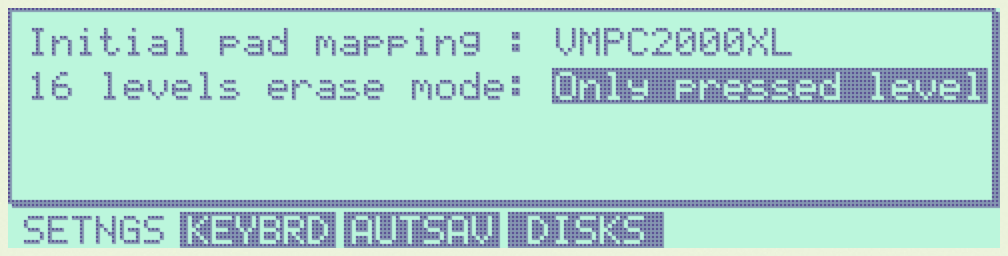
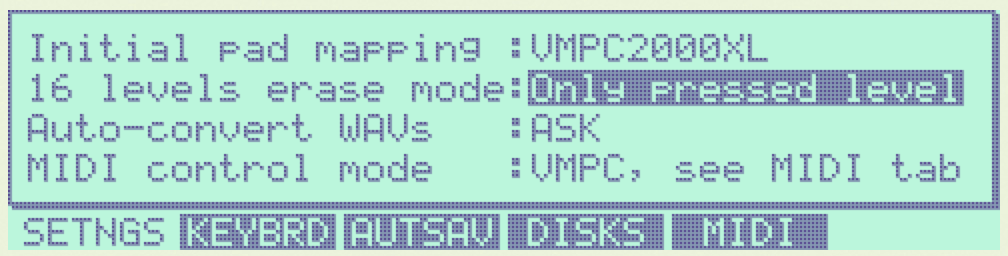
Fix LCD contrast in screenshots and update auto-persist

diff --git a/vmpc_specific_settings.rst b/vmpc_specific_settings.rst
@@ -91,12 +91,11 @@ Auto-convert WAVs
 +++++++++++++++++
 VMPC2000XL has the ability to convert PCM WAV files that are unsupported on the original MPC2000XL to a supported format. Eligible are 24- and 32-bit WAV files, as well as WAVs with a sampling rate over 44100Hz.
 
-By default VMPC2000XL will prompt you with a dialog when you are trying to load an unsupported file that is eligible for conversion. To always skip this prompt, set :code:`Auto-convert WAVs` to :code:`YES`.
+By default VMPC2000XL will always try to convert WAV files to a supported format. If you prefer to get a dialog instead, so you are aware of such conversions, set :code:`Auto-convert WAVs` to :code:`ASK`.
 
 .. image:: images/vmpc_specific_settings/auto_convert_wavs.png
    :width: 400 px
    :align: center
-
 
 .. _midi_control_mode:
 
@@ -108,9 +107,7 @@ VMPC2000XL supports 2 different modes in terms of MIDI controllability:
 
 2. :code:`ORIGINAL`. VMPC2000XL will respond like the original would. This means that incoming MIDI note events will be routed to pads according to how you've programmed your pad-to-MIDI note associations in the PROGRAM ASSIGN screen (Shift + 6, F1 - F4). Please refer to the `MPC2000XL manual <https://www.platinumaudiolab.com/free_stuff/manuals/Akai/akai_mpc2000xl_manual.pdf>`_ (p185) to see the details of assigning MIDI Continuous Controllers to MPC2000XL functionality in this mode, via the :code:`MIDIsw` screen.
 
-To change the :code:`MIDI control mode`, go to the :code:`SETNGS` tab by pressing :kbd:`Shift + 0`:
-
-.. image:: images/vmpc_specific_settings/vmpc-setngs.png
+.. image:: images/vmpc_specific_settings/midi_control_mode.png
    :width: 400 px
    :align: center
 
@@ -199,33 +196,22 @@ The following aspects are part of the state that is saved and loaded as part of 
 
   Since all sounds are stored in your DAW project files, be aware of their combined size. If you have 32MB of sounds in memory, your project file will become 32MB bigger.
 
-You can choose to auto-save upon exit and auto-load upon start. Both operations can be in 3 states:
+There are 2 auto-save modes:
+* Disabled
+* Enabled
 
+and there are 3 auto-load modes:
 * Disabled
 * Ask
 * Enabled
 
-The default configuration is like this:
+The default configuration is to enable auto-save, and to ask whether the user wants to auto-load the last saved state.
 
-.. image:: images/vmpc_specific_settings/default_autosave_configuration.png
-   :width: 400 px
-   :align: center
-
-When :code:`Auto-save on exit` is set to :code:`Ask`, you will be asked whether to save your session or don't save (in which case **it will be deleted permanently**):
-
-.. image:: images/vmpc_specific_settings/autosave_this_session.png
-   :width: 400 px
-   :align: center
-
-When it's set to :code:`Disabled`, your sessions will never be auto-saved upon exiting VMPC2000XL. Likewise, when it's set to :code:`Enabled` your sessions will be silently auto-saved when you exit, **overwriting your previous auto-save**.
-
-A similar logic applies to the :code:`Auto-load on start` setting. When it's set to :code:`Ask`, the following dialog appears upon startup if an auto-saved session is detected:
+When :code:`Auto-load on start` is set to :code:`Ask`, the following dialog appears upon startup if an auto-saved session is detected:
 
 .. image:: images/vmpc_specific_settings/continue_previous_session.png
    :width: 400 px
    :align: center
-
-When it's set to :code:`Disabled`, your sessions will never be auto-saved when you exit. When it's set to :code:`Enabled` your sessions will be silently restored when you open VMPC2000XL.
 
 Configuring (USB) disk devices in the DISKS tab
 -----------------------------------------------
